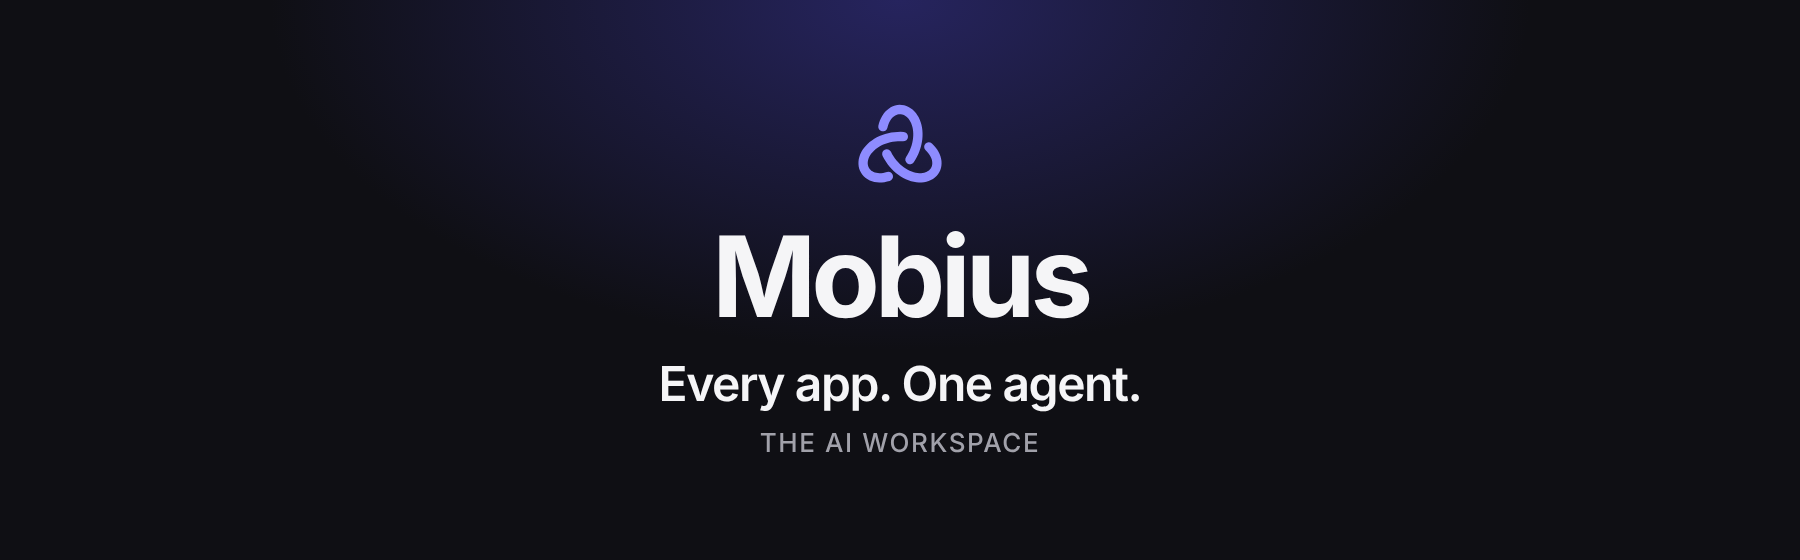
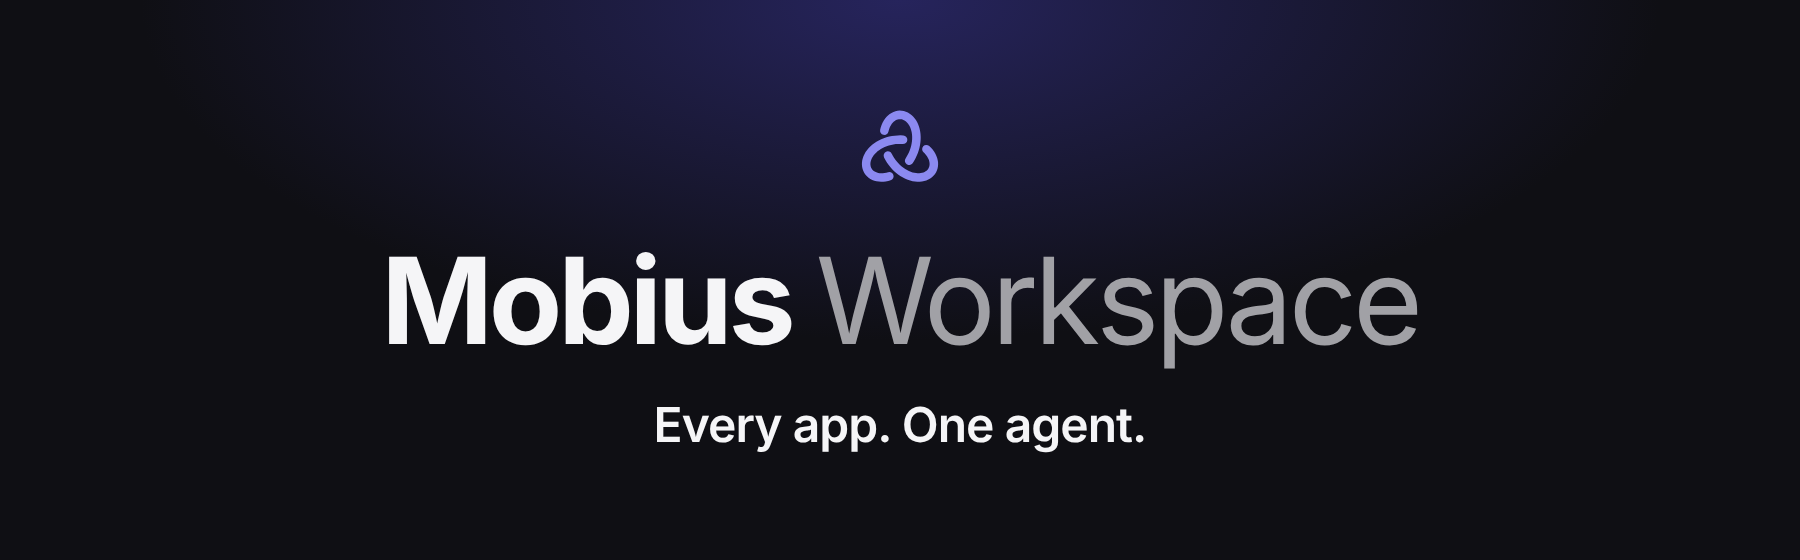
Docs: the README and docs home use the full name, Mobius Workspace (#499)
The banner reads Mobius Workspace over the tagline, drawn from a source page
kept in docs/readme/source so it can be changed and rendered again. Running
text and the app keep calling it Mobius; writing-docs says when to use which.

Claude-Session: https://claude.ai/code/session_01VRGwo5fWjM1Yc17b22C9Gb

Changed region(s): [[0.2178, 0.425, 0.8089, 0.6679], [0.3422, 0.6375, 0.6533, 0.8196], [0.4667, 0.1821, 0.5289, 0.3339]]

diff --git a/docs/readme/source/banner.html b/docs/readme/source/banner.html
@@ -1,0 +1,18 @@
+<!doctype html>
+<!-- The README banner. Render it with docs/readme/source/render.mjs (light and dark, 1800x560). -->
+<html><head><meta charset="utf-8"><style>
+@font-face{font-family:Inter;src:url(../../../node_modules/@fontsource-variable/inter/files/inter-latin-wght-normal.woff2) format("woff2");font-weight:100 900}
+html,body{margin:0}
+body{width:900px;height:280px;display:flex;flex-direction:column;align-items:center;justify-content:center;font-family:Inter,sans-serif;
+  background:radial-gradient(ellipse 380px 170px at 50% 0,var(--glow),transparent 100%),var(--bg);color:var(--ink);gap:0}
+body.light{--bg:#fff;--glow:#edecff;--ink:#1c1c1e;--soft:#6e6e73;--mark:#5856D6}
+body.dark{--bg:#0f0f14;--glow:#26245c;--ink:#f5f5f7;--soft:#a1a1a6;--mark:#8b89f0}
+svg{width:44px;height:44px;fill:var(--mark);margin-bottom:22px}
+h1{margin:0;font-size:60px;font-weight:700;letter-spacing:-0.035em;line-height:1}
+h1 span{font-weight:400;color:var(--soft)}
+p{margin:18px 0 0;font-size:24px;font-weight:600;letter-spacing:-0.02em}
+</style></head><body class="light">
+<svg viewBox="0 0 32 32" aria-hidden="true"><path d="M24.55 16.10 L25.03 16.57 L25.45 17.06 L25.81 17.56 L26.11 18.06 L26.36 18.56 L26.54 19.04 L26.67 19.52 L26.74 19.98 L26.76 20.42 L26.73 20.83 L26.66 21.22 L26.54 21.58 L26.38 21.92 L26.18 22.24 L25.93 22.53 L25.65 22.80 L25.31 23.04 L24.94 23.25 L24.52 23.43 L24.06 23.57 L23.55 23.67 L23.01 23.72 L22.43 23.73 L21.83 23.68 L21.20 23.57 L20.56 23.41 L19.90 23.19 L19.23 22.92 L18.57 22.58 L17.90 22.19 L17.25 21.75 L16.62 21.26 L16.00 20.71 L15.41 20.12 L14.85 19.49 L14.32 18.82 L13.83 18.11 L13.39 17.38 L12.99 16.61 L12.62 16.13 L12.10 15.83 L11.50 15.75 L10.91 15.90 L10.43 16.27 L10.13 16.79 L10.05 17.39 L10.20 17.98 L10.69 18.90 L11.23 19.79 L11.82 20.65 L12.47 21.47 L13.15 22.24 L13.87 22.97 L14.63 23.64 L15.43 24.26 L16.24 24.81 L17.08 25.31 L17.94 25.73 L18.81 26.10 L19.69 26.39 L20.57 26.61 L21.44 26.75 L22.31 26.82 L23.16 26.82 L23.99 26.74 L24.80 26.58 L25.57 26.35 L26.30 26.04 L26.99 25.65 L27.62 25.20 L28.18 24.67 L28.67 24.08 L29.09 23.43 L29.42 22.73 L29.66 22.00 L29.80 21.24 L29.86 20.46 L29.83 19.67 L29.70 18.88 L29.49 18.10 L29.20 17.33 L28.83 16.57 L28.39 15.84 L27.87 15.13 L27.29 14.46 L26.64 13.82 L26.13 13.50 L25.53 13.41 L24.94 13.55 L24.45 13.91 L24.14 14.43 L24.05 15.03 L24.19 15.61 Z"/><path d="M11.81 8.58 L11.98 7.93 L12.19 7.31 L12.43 6.75 L12.71 6.23 L13.02 5.77 L13.35 5.36 L13.70 5.01 L14.06 4.72 L14.43 4.48 L14.81 4.30 L15.18 4.16 L15.56 4.08 L15.93 4.05 L16.31 4.07 L16.68 4.13 L17.06 4.24 L17.44 4.41 L17.81 4.63 L18.17 4.90 L18.53 5.23 L18.86 5.62 L19.18 6.06 L19.47 6.56 L19.73 7.11 L19.96 7.71 L20.14 8.35 L20.28 9.03 L20.37 9.75 L20.42 10.49 L20.41 11.26 L20.35 12.05 L20.24 12.85 L20.08 13.65 L19.86 14.46 L19.59 15.27 L19.27 16.06 L18.90 16.84 L18.49 17.59 L18.03 18.32 L17.79 18.88 L17.79 19.48 L18.02 20.04 L18.45 20.47 L19.00 20.71 L19.61 20.71 L20.17 20.48 L20.60 20.05 L21.16 19.17 L21.66 18.25 L22.11 17.31 L22.50 16.34 L22.83 15.36 L23.10 14.37 L23.30 13.37 L23.44 12.38 L23.51 11.39 L23.52 10.41 L23.46 9.45 L23.34 8.52 L23.15 7.61 L22.90 6.74 L22.59 5.91 L22.22 5.12 L21.79 4.38 L21.30 3.70 L20.76 3.08 L20.17 2.53 L19.53 2.05 L18.86 1.65 L18.14 1.34 L17.40 1.11 L16.64 0.98 L15.87 0.95 L15.10 1.02 L14.35 1.18 L13.61 1.43 L12.91 1.78 L12.25 2.21 L11.62 2.71 L11.05 3.29 L10.53 3.93 L10.06 4.63 L9.65 5.38 L9.30 6.19 L9.01 7.03 L8.78 7.92 L8.77 8.52 L8.99 9.09 L9.41 9.52 L9.96 9.76 L10.57 9.78 L11.13 9.56 L11.56 9.14 Z"/><path d="M11.66 23.35 L11.00 23.53 L10.37 23.65 L9.76 23.72 L9.17 23.73 L8.62 23.69 L8.10 23.61 L7.62 23.48 L7.19 23.31 L6.80 23.11 L6.45 22.88 L6.15 22.62 L5.90 22.33 L5.68 22.02 L5.51 21.69 L5.38 21.33 L5.29 20.95 L5.24 20.54 L5.25 20.11 L5.30 19.66 L5.42 19.18 L5.58 18.70 L5.81 18.20 L6.10 17.70 L6.44 17.20 L6.85 16.71 L7.32 16.23 L7.84 15.77 L8.41 15.33 L9.04 14.92 L9.71 14.54 L10.42 14.20 L11.17 13.89 L11.95 13.63 L12.76 13.42 L13.59 13.25 L14.44 13.13 L15.29 13.07 L16.16 13.05 L17.02 13.09 L17.62 13.01 L18.14 12.71 L18.51 12.23 L18.67 11.65 L18.60 11.05 L18.30 10.52 L17.82 10.15 L17.24 9.99 L16.19 9.95 L15.15 9.97 L14.10 10.05 L13.07 10.20 L12.06 10.40 L11.06 10.66 L10.10 10.98 L9.17 11.36 L8.27 11.79 L7.42 12.27 L6.62 12.80 L5.87 13.37 L5.18 13.99 L4.55 14.64 L3.98 15.32 L3.48 16.04 L3.06 16.78 L2.71 17.54 L2.44 18.32 L2.25 19.10 L2.16 19.89 L2.15 20.68 L2.23 21.46 L2.40 22.21 L2.67 22.94 L3.02 23.62 L3.46 24.25 L3.98 24.83 L4.56 25.34 L5.21 25.78 L5.91 26.14 L6.66 26.43 L7.44 26.64 L8.26 26.77 L9.10 26.83 L9.96 26.81 L10.83 26.71 L11.71 26.54 L12.59 26.30 L13.12 26.01 L13.50 25.54 L13.67 24.96 L13.60 24.36 L13.31 23.83 L12.84 23.45 L12.26 23.28 Z"/></svg>
+<h1>Mobius <span>Workspace</span></h1>
+<p>Every app. One agent.</p>
+</body></html>

diff --git a/docs/writing-docs.md b/docs/writing-docs.md
@@ -80,6 +80,8 @@ Headings are sentence case. Keep to `##` and `###`; deeper headings mean the pag
 - **Files and folders:** lowercase with hyphens (`models-and-gateways.md`). Name a page for its subject, not a verb.
 - **Folder index:** `README.md`, so GitHub shows it when the folder opens.
 - **ADRs:** `adr/NNNN-short-title.md`, numbered after the last one.
+- **The product's name:** **Mobius Workspace** where the full name helps a newcomer (the README title, the docs home,
+  the installer and store listings). Everywhere else, and always for the agent, it is **Mobius**.
 - **Things in the app:** the names people see, in bold the first time on a page: **Music** (not Studio), **Knowledge**
   (not Wiki), **Abilities** (not Extensions), **Agents** (not Bots), **Gateways** (not Providers), **Home** (the rail's name for the Agent
   app; its section heading stays `## Agent` so Learn can find it). Code names appear only
@@ -108,6 +110,8 @@ Headings are sentence case. Keep to `##` and `###`; deeper headings mean the pag
   takes every app in light and dark (`npm run readme-shots -- music tasks` takes only those). Look at each picture before
   committing it. An app that should open on something (Mail on a message, Views on a view) is set up in the script's
   `THEN` list.
+- **The banner** at the top of the README is drawn from `docs/readme/source/banner.html`; change the words there and
+  run `node docs/readme/source/render.mjs` for the light and dark pictures.
 - Other pictures come from the real app too, not a mock-up: `npm run dev` (the preview with sample data) or the app
   itself.
 - Show real-looking work (the sample data's Kestrel build at Northway Motors), never personal data.

diff --git a/README.md b/README.md
@@ -2,10 +2,10 @@
 
 <picture>
   <source media="(prefers-color-scheme: dark)" srcset="docs/readme/banner-dark.png">
-  <img src="docs/readme/banner-light.png" alt="Mobius. Every app. One agent. The AI workspace.">
+  <img src="docs/readme/banner-light.png" alt="Mobius Workspace. Every app. One agent.">
 </picture>
 
-<h3>Mobius is an AI workspace: your everyday apps in one app, with an agent that works across all of them.</h3>
+<h3>An open-source AI workspace: your everyday apps in one app, with an agent that works across all of them.</h3>
 
 <p>
   <a href="https://github.com/BevActual/mobius/releases"><b>Download</b></a> &nbsp;·&nbsp;

diff --git a/docs/README.md b/docs/README.md
@@ -1,6 +1,6 @@
-# Mobius documentation
+# Mobius Workspace documentation
 
-Mobius is an AI workspace: your everyday apps in one app, with an agent that works across all of them.
+Mobius Workspace is an AI workspace: your everyday apps in one app, with an agent that works across all of them.
 
 These pages are for two kinds of reader. If you use Mobius, start with **Getting started** and the **User guide**. If
 you want to build or change Mobius, go to **Developers**.
